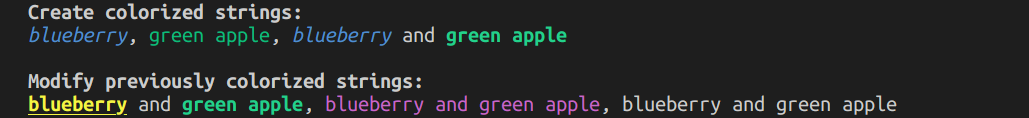
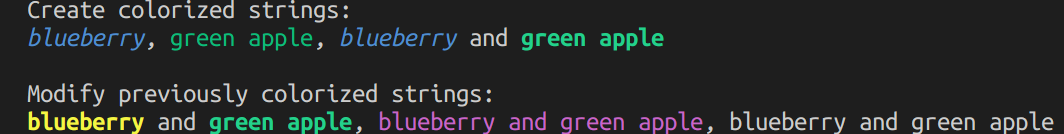
Added tests.

Changed region(s): [[0.0, 0.8136, 0.9951, 1.0], [0.0, 0.0, 0.622, 0.3814], [0.0, 0.6102, 0.4665, 0.7881]]

diff --git a/lib/src/ansi.dart b/lib/src/ansi.dart
@@ -27,105 +27,114 @@ enum Replace {
   clearPrevious,
 }
 
-/// Enumeration representing Ansi modifiers.
+/// Class representing Ansi modifiers.
 ///
 /// Used to print custom fonts and colorized output to Ansi compliant terminals.
-class Ansi {
+final class Ansi {
   /// Ansi modifier: Reset to default.
-  static final reset = Ansi('0');
+  static final reset = Ansi._('0');
 
   /// Ansi modifier bold forground text.
-  static final bold = Ansi('1');
+  static final bold = Ansi._('1');
 
   /// Ansi modifier italic foreground text.
-  static final italic = Ansi('3');
+  static final italic = Ansi._('3');
 
   /// Ansi mofifiers underlined foreground text.
-  static final underline = Ansi('4');
+  static final underline = Ansi._('4');
 
   /// Ansi modifier crossed out foreground text.
-  static final crossedOut = Ansi('9');
+  static final crossedOut = Ansi._('9');
 
   /// Ansi color modifier: black foreground.
-  static final black = Ansi('30');
+  static final black = Ansi._('30');
 
   /// Ansi color modifier: red foreground.
-  static final red = Ansi('31');
+  static final red = Ansi._('31');
 
   /// Ansi color modifier: green foreground.
-  static final green = Ansi('32');
+  static final green = Ansi._('32');
 
   /// Ansi color modifier: yellow foreground.
-  static final yellow = Ansi('33');
+  static final yellow = Ansi._('33');
 
   /// Ansi color modifier: blue foreground.
-  static final blue = Ansi('34');
+  static final blue = Ansi._('34');
 
   /// Ansi color modifier: magenta foreground.
-  static final magenta = Ansi('35');
+  static final magenta = Ansi._('35');
 
   /// Ansi color modifier: magenta bold foreground.
-  static final magentaBold = Ansi('1;35');
+  static final magentaBold = Ansi._('1;35');
 
   /// Ansi color modifier: cyan foreground.
-  static final cyan = Ansi('36');
+  static final cyan = Ansi._('36');
 
   /// Ansi color modifier: cyan bold text.
-  static final cyanBold = Ansi('1;36');
+  static final cyanBold = Ansi._('1;36');
 
   /// Ansi color modifier: grey foreground
-  static final grey = Ansi('2;37');
+  static final grey = Ansi._('2;37');
 
   /// Ansi color modifier: black background
-  static final blackBg = Ansi('40');
+  static final blackBg = Ansi._('40');
 
   /// Ansi color modifier: red backgroound
-  static final redBg = Ansi('41');
+  static final redBg = Ansi._('41');
 
   /// Ansi color modifier: green background
-  static final greenBg = Ansi('42');
+  static final greenBg = Ansi._('42');
 
   /// Ansi color modifier: yellow background
-  static final yellowBg = Ansi('43');
+  static final yellowBg = Ansi._('43');
 
   /// Ansi color modifier: blue background
-  static final blueBg = Ansi('44');
+  static final blueBg = Ansi._('44');
 
   /// Ansi color modifier: magenta background
-  static final magentaBg = Ansi('45');
+  static final magentaBg = Ansi._('45');
 
   /// Ansi color modifier: cyan background
-  static final cyanBg = Ansi('46');
+  static final cyanBg = Ansi._('46');
 
   /// Ansi color modifier: white background
-  static final whiteBg = Ansi('47');
+  static final whiteBg = Ansi._('47');
 
   /// Ansi color modifier: bright red foreground.
-  static final redBright = Ansi('91');
+  static final redBright = Ansi._('91');
 
   /// Ansi color modifier: bright green foreground.
-  static final greenBright = Ansi('92');
+  static final greenBright = Ansi._('92');
 
   /// Ansi color modifier: bright yellow foreground.
-  static final yellowBright = Ansi('93');
+  static final yellowBright = Ansi._('93');
 
   /// Ansi color modifier: bright blue foreground.
-  static final blueBright = Ansi('94');
+  static final blueBright = Ansi._('94');
 
   /// Ansi color modifier: bright magenta foreground.
-  static final magentaBright = Ansi('95');
+  static final magentaBright = Ansi._('95');
 
   /// Ansi color modifier: grey bold foreground
-  static final greyBold = Ansi('1;90');
+  static final greyBold = Ansi._('1;90');
 
   /// Ansi color modifier: white bold foreground
-  static final whiteBold = Ansi('1;97');
+  static final whiteBold = Ansi._('1;97');
 
-  const Ansi(this.bareCode) : code = escLeft + bareCode + escRight;
+  const Ansi._(this.bareCode) : code = escLeft + bareCode + escRight;
 
   /// Factory constructor combining several Ansi modifiers.
   factory Ansi.combine(Set<Ansi> modifiers) {
-    return Ansi(modifiers.map<String>((element) => element.bareCode).join(';'));
+    // Extract modifiers:
+    final bareCodes = (modifiers
+            .map<String>((element) => element.bareCode)
+            .join(';')
+            .split(';')
+          ..sort())
+        .toSet()
+        .join(';');
+
+    return Ansi._(bareCodes);
   }
 
   /// Returns the escaped Ansi code.
@@ -142,11 +151,21 @@ class Ansi {
 
   /// Creates a new Ansi object by joining the bare Ansi codes separated by a
   /// semicolon character.
-  Ansi operator +(Ansi other) => this == other
-      ? this
-      : Ansi(
-          bareCode + ';' + other.bareCode,
-        );
+  Ansi operator +(Ansi other) =>
+      this == other ? this : Ansi.combine({this, other});
+
+  /// Returns `true` if [other] is of type [Ansi] and
+  /// `bareCode == other.bareCode`. Returns `false` otherwise.
+  bool operator ==(Object other) {
+    if (other is Ansi) {
+      return bareCode == other.bareCode;
+    } else {
+      return false;
+    }
+  }
+
+  @override
+  int get hashCode => bareCode.hashCode;
 
   @override
   String toString() {

diff --git a/test/ansi_test.dart b/test/ansi_test.dart
@@ -1,0 +1,51 @@
+import 'package:ansi_modifier/ansi_modifier.dart';
+import 'package:test/test.dart';
+
+void main() {
+  group('Constructors:', () {
+    test('factory Ansi.combine', () {
+      final ansi = Ansi.combine({Ansi.red, Ansi.italic});
+      expect(
+        ansi.bareCode,
+        Ansi.italic.bareCode + ';' + Ansi.red.bareCode,
+        reason: 'Bare code are sorted!',
+      );
+    });
+  });
+  group('Accessors', () {
+    test('fields', () {
+      expect(
+        Ansi.red,
+        isA<Ansi>()
+            .having(
+              (ansi) => ansi.code,
+              'escaped code',
+              escLeft + '31' + escRight,
+            )
+            .having((ansi) => ansi.bareCode, 'bare code', '31'),
+      );
+    });
+
+    test('status', () {
+      expect(Ansi.status, AnsiOutput.enabled);
+    });
+  });
+  group('Operator:', () {
+    test('+', () {
+      expect(
+        Ansi.combine({Ansi.cyan, Ansi.bold}),
+        (Ansi.cyan + Ansi.bold),
+      );
+    });
+    test('Equals', () {
+      expect(Ansi.red, Ansi.red);
+      expect(Ansi.red + Ansi.bold, Ansi.bold + Ansi.red);
+    });
+    test('bareCode', () {
+      expect(
+        (Ansi.bold + Ansi.italic).bareCode,
+        (Ansi.italic + Ansi.bold).bareCode,
+      );
+    });
+  });
+}

diff --git a/example/bin/color_example.dart b/example/bin/color_example.dart
@@ -2,7 +2,7 @@ import 'package:ansi_modifier/src/ansi.dart';
 
 void main(List<String> args) {
   /// Create colorized strings.
-  print('Create colorized strings:'.modify(Ansi.bold));
+  print('Create colorized strings:');
   final blue = 'blueberry'.modify(Ansi.blue + Ansi.italic);
   final green = 'green apple'.modify(Ansi.green);
   final blueGreen = blue +
@@ -14,11 +14,11 @@ void main(List<String> args) {
   print('$blue, $green, $blueGreen');
 
   /// Modify a previously colorized string.
-  print('\nModify previously colorized strings:'.modify(Ansi.bold));
+  print('\nModify previously colorized strings:');
 
   /// Replace first modifier:
-  final yellowGreen =
-      blueGreen.modify(Ansi.yellow + Ansi.bold + Ansi.underline, method: Replace.first);
+  final yellowGreen = blueGreen.modify(Ansi.yellow + Ansi.bold + Ansi.underline,
+      method: Replace.first);
 
   /// Replace all modifiers.
   final magenta =

diff --git a/README.md b/README.md
@@ -3,53 +3,51 @@
 
 ## Introduction
 
-The package provides an enhanced enum holding ANSI modifier codes and
+The package provides the class [`Ansi`][Ansi] holding ANSI modifier codes and
 String extension methods for adding, replacing, and removing ANSI modifiers.
+
 
 ## Usage
 
 Include [`ansi_modifier`][ansi_modifier] as a dependency
  in your `pubspec.yaml` file.
 
-Modify strings by adding, replacing, or clearing existing ANSI modifiers using
-the String
-extension functions [`modify()`][modify()] and [`clearAnsi()`][clearAnsi()].
+Use the String extension functions [`modify`][modify] to add new modifiers or
+to replace existing ones. The replacement method can be adjusted by setting the
+optional argument `method`.
+
+Use the function [`stripAnsi`][stripAnsi] to remove
+all Ansi modifier from a string.
 
 ```Dart
 import 'package:ansi_modifier/src/ansi.dart';
 
 void main(List<String> args) {
   /// Create colorized strings.
-  print('Create colorized strings:'.modify(Ansi.bold));
-  final blue = 'A string.'.modify(Ansi.blue);
-  print('A blue string:');
-  print(blue);
-
-  print('\nA green string:');
-  final green = 'Another string'.modify(Ansi.green);
-  print(green);
-
-  print('\nA blue green string:');
-  final blueGreen = blue + ' ' + green;
-  print(blueGreen);
+  print('Create colorized strings:');
+  final blue = 'blueberry'.modify(Ansi.blue + Ansi.italic);
+  final green = 'green apple'.modify(Ansi.green);
+  final blueGreen = blue +
+      ' and ' +
+      green.modify(
+        Ansi.bold,
+        method: Replace.none,
+      );
+  print('$blue, $green, $blueGreen');
 
   /// Modify a previously colorized string.
-  print('\nModify previously colorized strings:'.modify(Ansi.bold));
+  print('\nModify previously colorized strings:');
 
   /// Replace first modifier:
-  final yellowGreen = blueGreen.modify(Ansi.yellow, method: Replace.first);
-  print('A yellow green string:');
-  print(yellowGreen);
+  final yellowGreen = blueGreen.modify(Ansi.yellow + Ansi.bold + Ansi.underline,
+      method: Replace.first);
 
   /// Replace all modifiers.
   final magenta =
       yellowGreen.modify(Ansi.magenta, method: Replace.clearPrevious);
-  print('\nA magenta string:');
-  print(magenta);
 
   /// Strip all Ansi modifiers.
-  print('\nA standard string:');
-  print(magenta.stripAnsi());
+  print('$yellowGreen, $magenta, ${magenta.stripAnsi()}');
 }
 ```
 
@@ -103,16 +101,12 @@ more difficult to read (grouped) benchmark results.
 
 Please file feature requests and bugs at the [issue tracker][tracker].
 
-[tracker]: https://github.com/simphotonics/benchmark_runner/issues
+[tracker]: https://github.com/simphotonics/ansi_modifier/issues
 
-[benchmark_harness]: https://pub.dev/packages/benchmark_harness
+[ansi_modifier]: https://pub.dev/packages/ansi_modifier
 
-[benchmark_runner]: https://pub.dev/packages/benchmark_runner
+[Ansi]: https://pub.dev/packages/ansi_modifier/doc/api/ansi_modifier/Ansi-class.html
 
-[asyncBenchmark]: https://pub.dev/documentation/benchmark_runner/doc/api/benchmark_runner/asyncBenchmark.html
+[modify]: https://pub.dev/documentation/ansi_modifier/doc/api/ansi_modifier/AnsiModifier/modify.html
 
-[asyncGroup]: https://pub.dev/documentation/benchmark_runner/doc/api/benchmark_runner/asyncGroup.html
-
-[benchmark]: https://pub.dev/documentation/benchmark_runner/doc/api/benchmark_runner/benchmark.html
-
-[group]: https://pub.dev/documentation/benchmark_runner/doc/api/benchmark_runner/group.html
+[clearAnsi]: https://pub.dev/documentation/ansi_modifier/doc/api/ansi_modifier/AnsiModifier/asyncGroup.html
